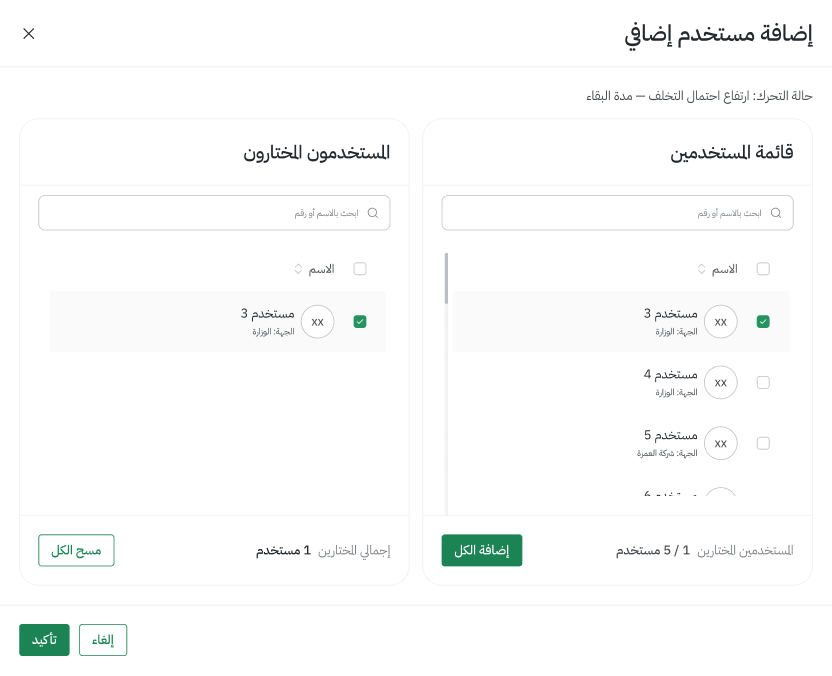
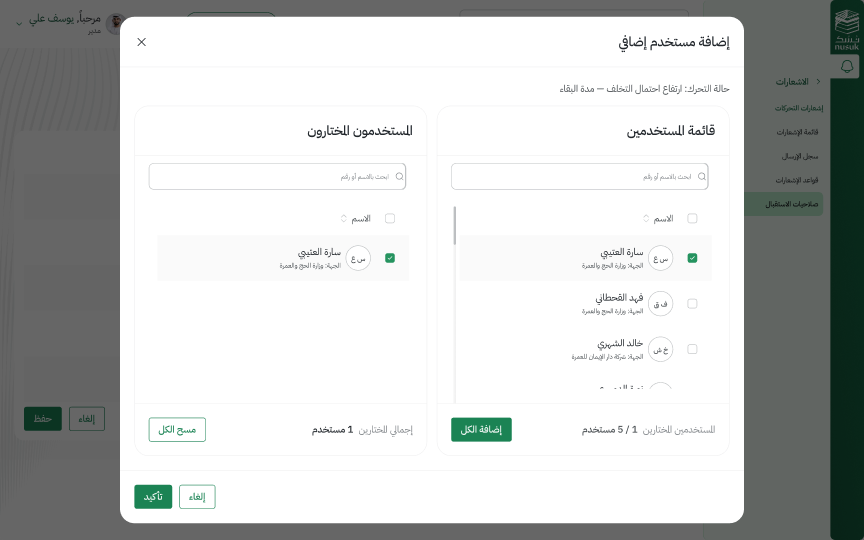
Permissions modal: DS modal header/footer, realistic data; title findings
Claude-Session: https://claude.ai/code/session_01CyctH4WFBszWbBNkvnfQuz

diff --git a/CLAUDE.md b/CLAUDE.md
@@ -83,6 +83,12 @@ All four libraries are published and reachable through `search_design_system`.
     - Modal screen `4507:43874` has a 30% black overlay. Its `modal_window` `4507:44077` is cloned from the cancel
       modal `3573:57104`, and its two list panels are cloned from the add-receivers story `2056:114448/114514`
       (MOHU page). The panels are recolored green and use DS checkbox/button and IBM fonts.
+    - Modal header/footer and the two panel headers are Nusuk Masar `modal_header` (`8b9e8bb8…`, title IBM Headline/M 22)
+      and `modal_footer` (`d879015e…`); the old-library header (Zarid 28) made titles too big.
+    - Data is realistic (users such as سارة العتيبي — وزارة الحج والعمرة, خالد الشهري — شركة دار الإيمان للعمرة, initials in avatars).
+  - Page titles measured: green screens Zarid Serif 36/54 (≈ IBM 30), old brown Zarid Sans 40 (Headline/XL),
+    Umrah Individuals list IBM Regular 28/54, details DS `Headline/XL` 32/56. DS `headerSection` uses Headline/L 24.
+  - **Rule (user):** use real-looking data, not placeholders like «مستخدم 3» or «XX»; use DS components over old-library ones.
   - **Rule (user):** ignore brown entirely; always use primary green (SA600) for anything cloned from old screens.
     Tag set key `d0f3a464…`, icon/add `017f4710…`.
   - Selected tab needs an SA600 override on its label and indicator; the library default is brown.
